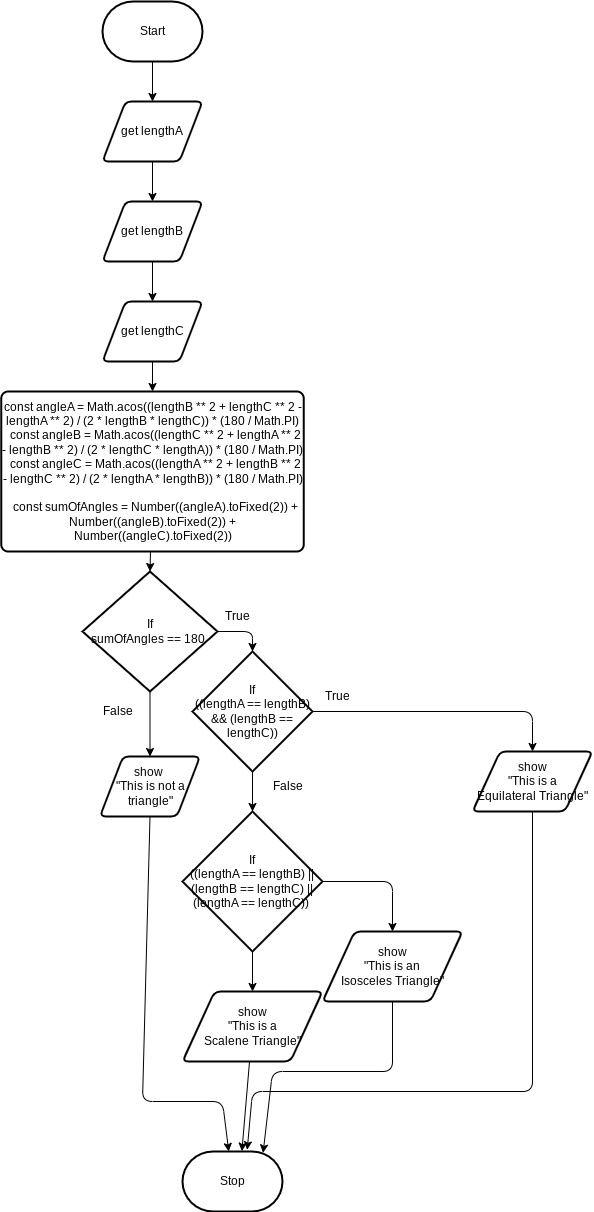
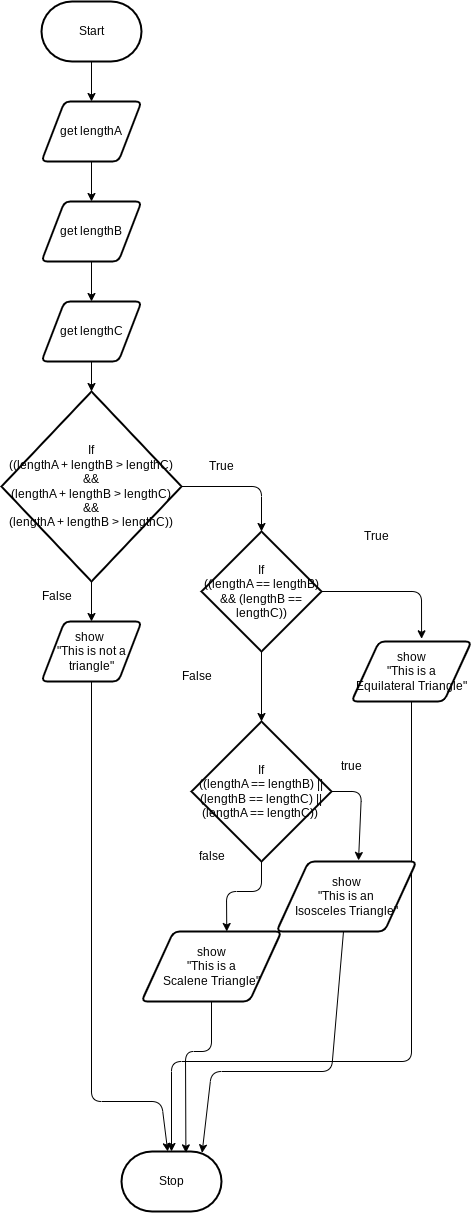
change if statement

diff --git a/js/script.js b/js/script.js
@@ -12,18 +12,12 @@
 
 function findTriangleType() {
   // input
-  const lengthA = document.getElementById("length-a").value
-  const lengthB = document.getElementById("length-b").value
-  const lengthC = document.getElementById("length-c").value
+  const lengthA = parseFloat(document.getElementById("length-a").value)
+  const lengthB = parseFloat(document.getElementById("length-b").value)
+  const lengthC = parseFloat(document.getElementById("length-c").value)
 
   // process
-  const angleA = Math.acos((lengthB ** 2 + lengthC ** 2 - lengthA ** 2) / (2 * lengthB * lengthC)) * (180 / Math.PI)
-  const angleB = Math.acos((lengthC ** 2 + lengthA ** 2 - lengthB ** 2) / (2 * lengthC * lengthA)) * (180 / Math.PI)
-  const angleC = Math.acos((lengthA ** 2 + lengthB ** 2 - lengthC ** 2) / (2 * lengthA * lengthB)) * (180 / Math.PI)
-
-  const sumOfAngles = Number((angleA).toFixed(2)) + Number((angleB).toFixed(2)) + Number((angleC).toFixed(2))
-
-  if (Math.round(sumOfAngles) == 180){
+  if ((lengthA + lengthB > lengthC) && (lengthA + lengthB > lengthC) && (lengthA + lengthB > lengthC)) {
     if ((lengthA == lengthB) && (lengthB == lengthC)) {
       // output
       document.getElementById("result").innerHTML = "This is a Equilateral Triangle"
@@ -38,4 +32,4 @@ function findTriangleType() {
     // output
     document.getElementById("result").innerHTML = "This is not a triangle"
   }
-} 
+}
